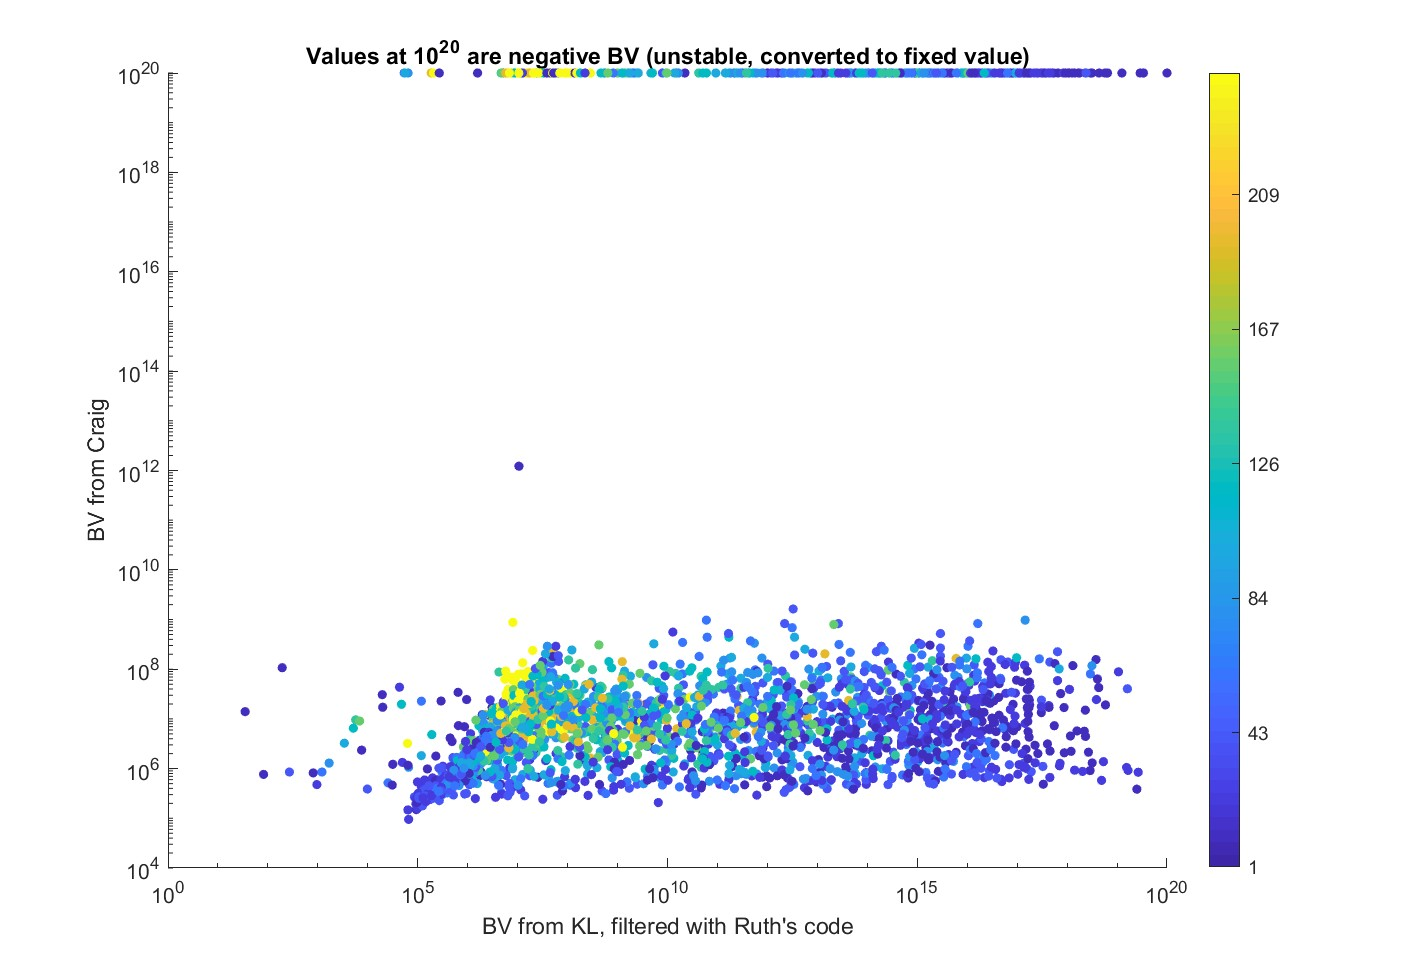
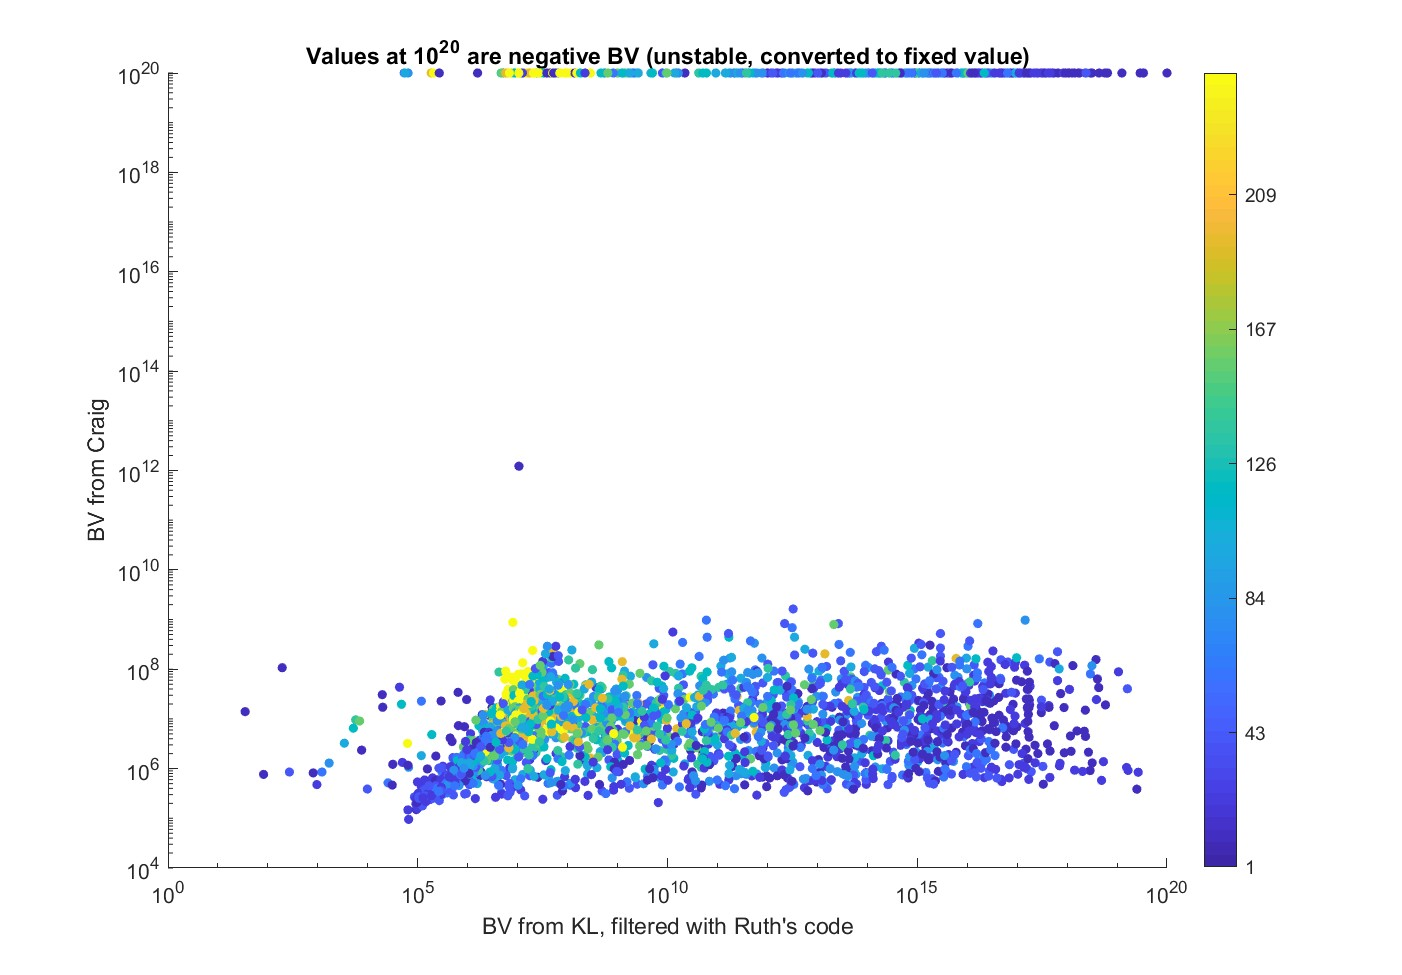
updating figure

Changed region(s): [[0.8588, 0.0615, 0.9201, 0.8923]]

diff --git a/compare_BV.m b/compare_BV.m
@@ -78,13 +78,13 @@ clear a
 
 % plot(T.BV_KL,T.N_squared,'.')
 % gscatter(T.BV_KL, T.BV_CC, T.BV_KL_count,[],[],20)
-plot(T.BV_KL, T.BV_CC,'.')
-hold on
-xlabel('BV from KL, filtered with Ruth''s code')
-ylabel('BV from Craig')
-title('Values at 10^2^0 are negative BV (unstable, converted to fixed value)')
-set(gca,'yscale','log')
-set(gca,'xscale','log')
+% plot(T.BV_KL, T.BV_CC,'.')
+% hold on
+% xlabel('BV from KL, filtered with Ruth''s code')
+% ylabel('BV from Craig')
+% title('Values at 10^2^0 are negative BV (unstable, converted to fixed value)')
+% set(gca,'yscale','log')
+% set(gca,'xscale','log')
 
 figure
 colordots2([T.BV_KL, T.BV_CC,T.Depth_m_],20,1,'parula')
